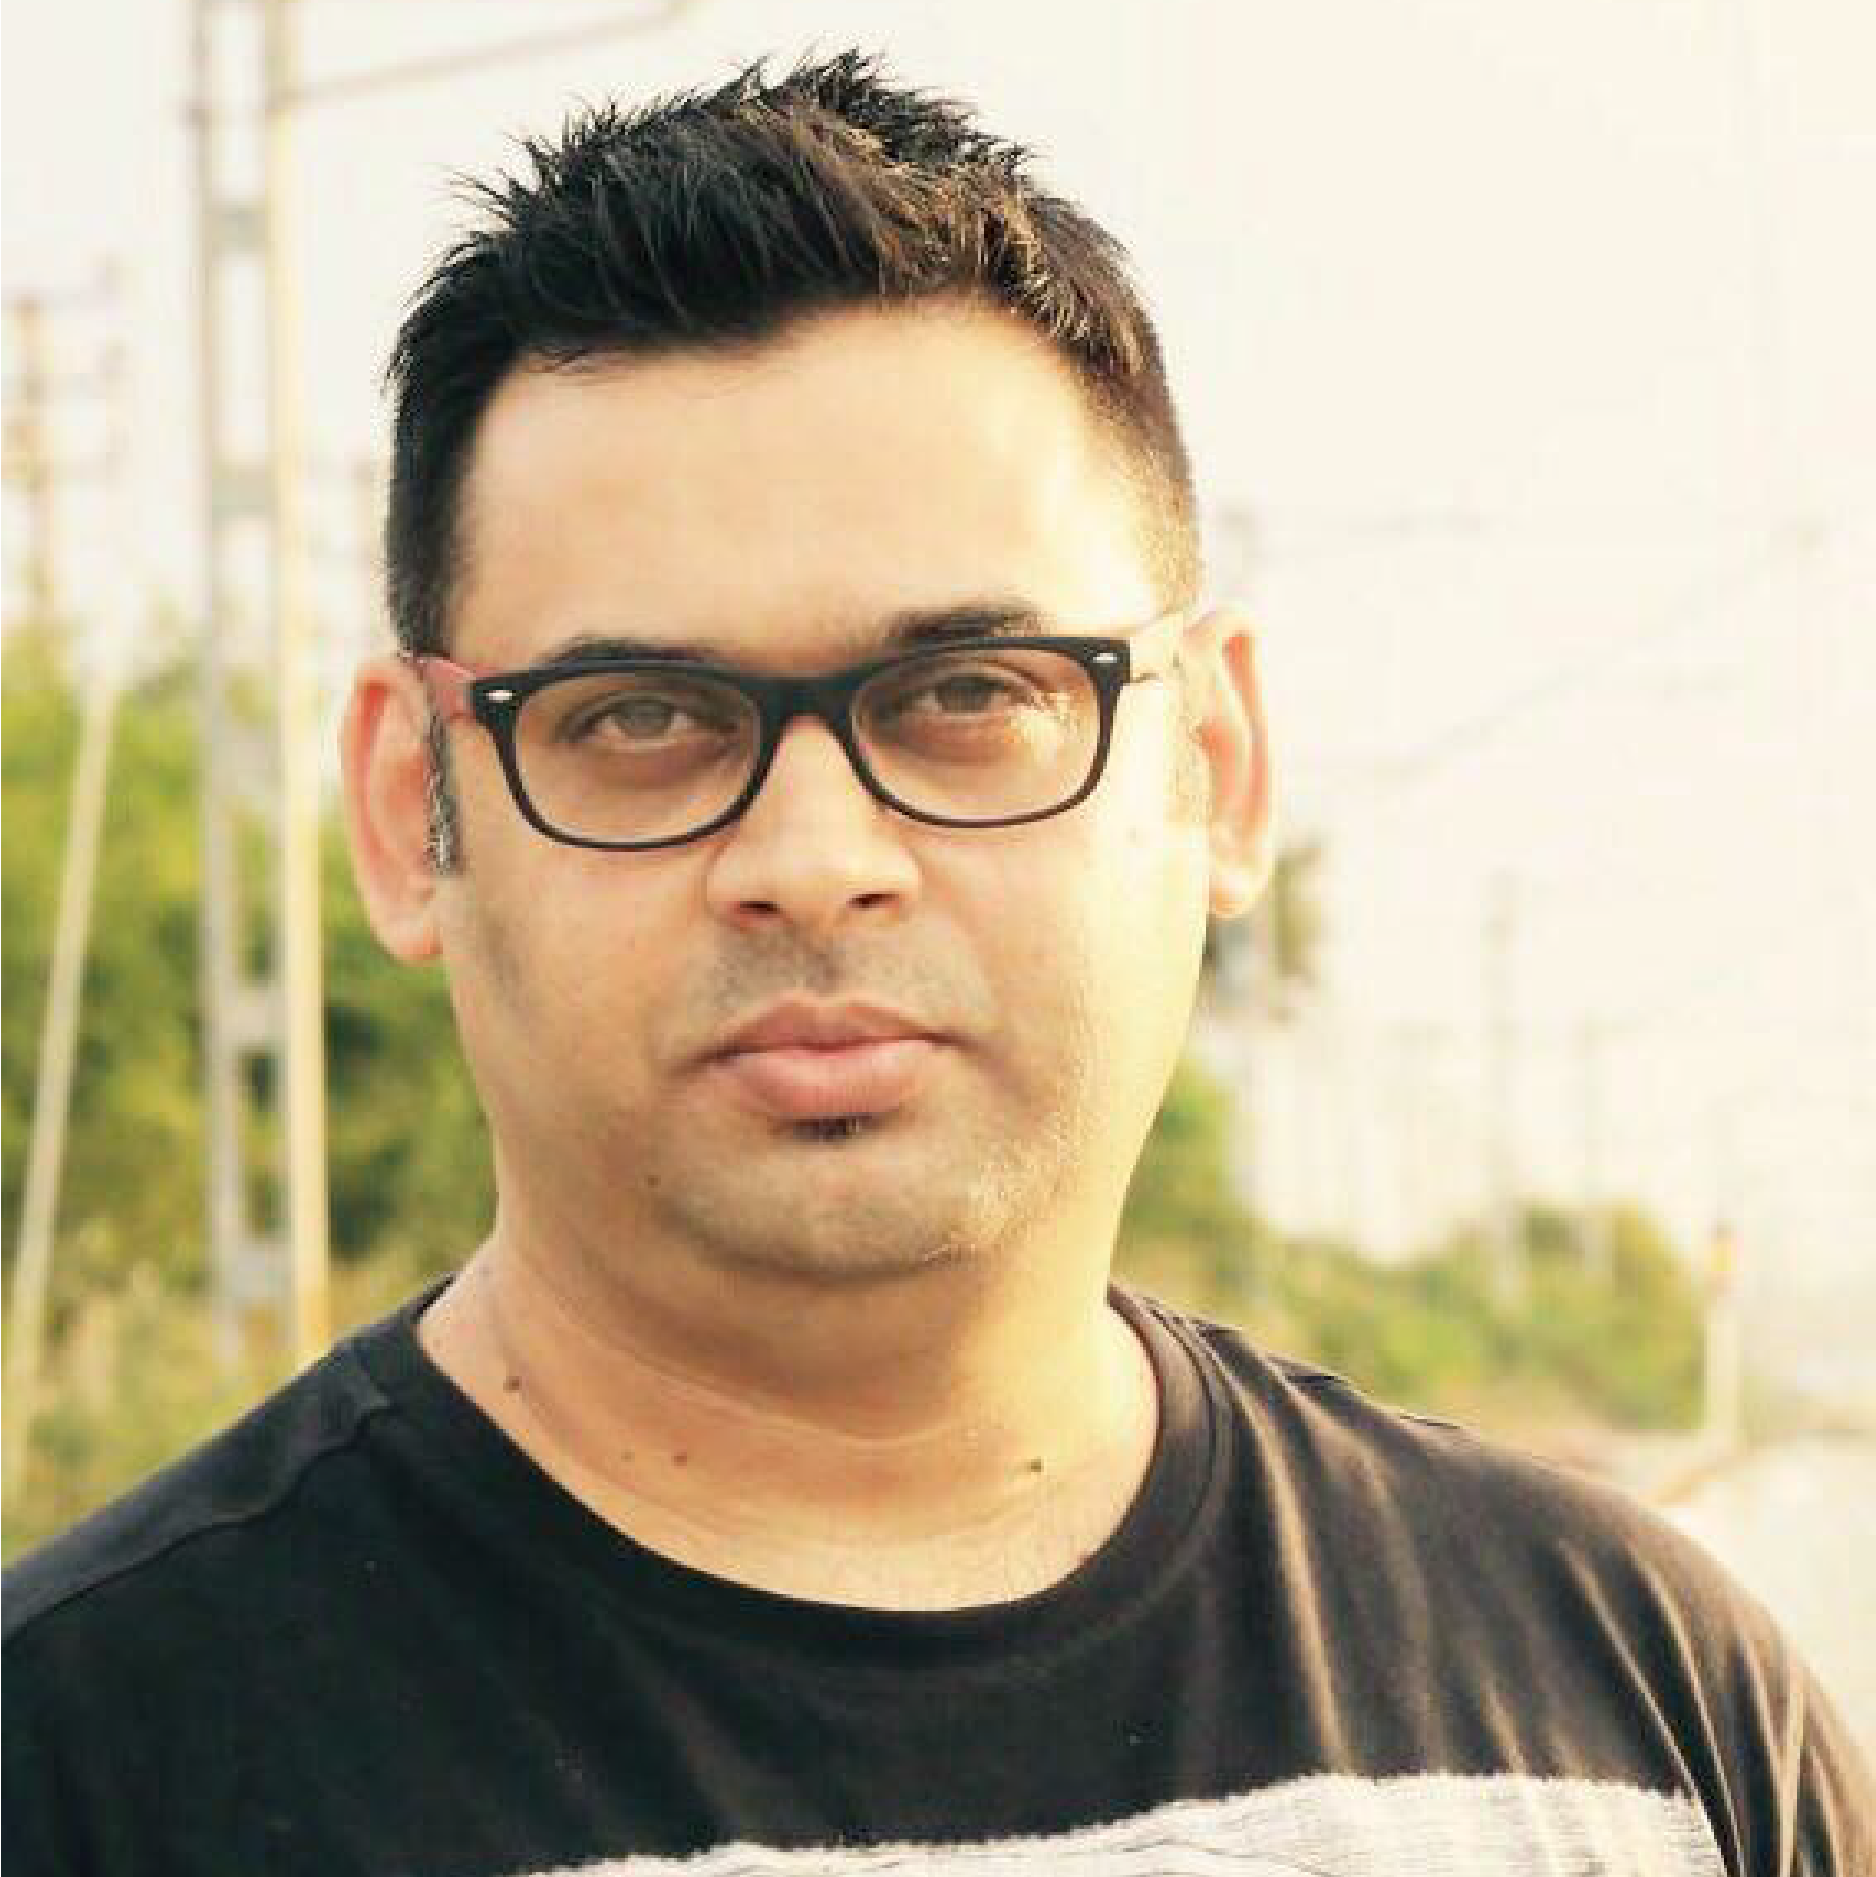
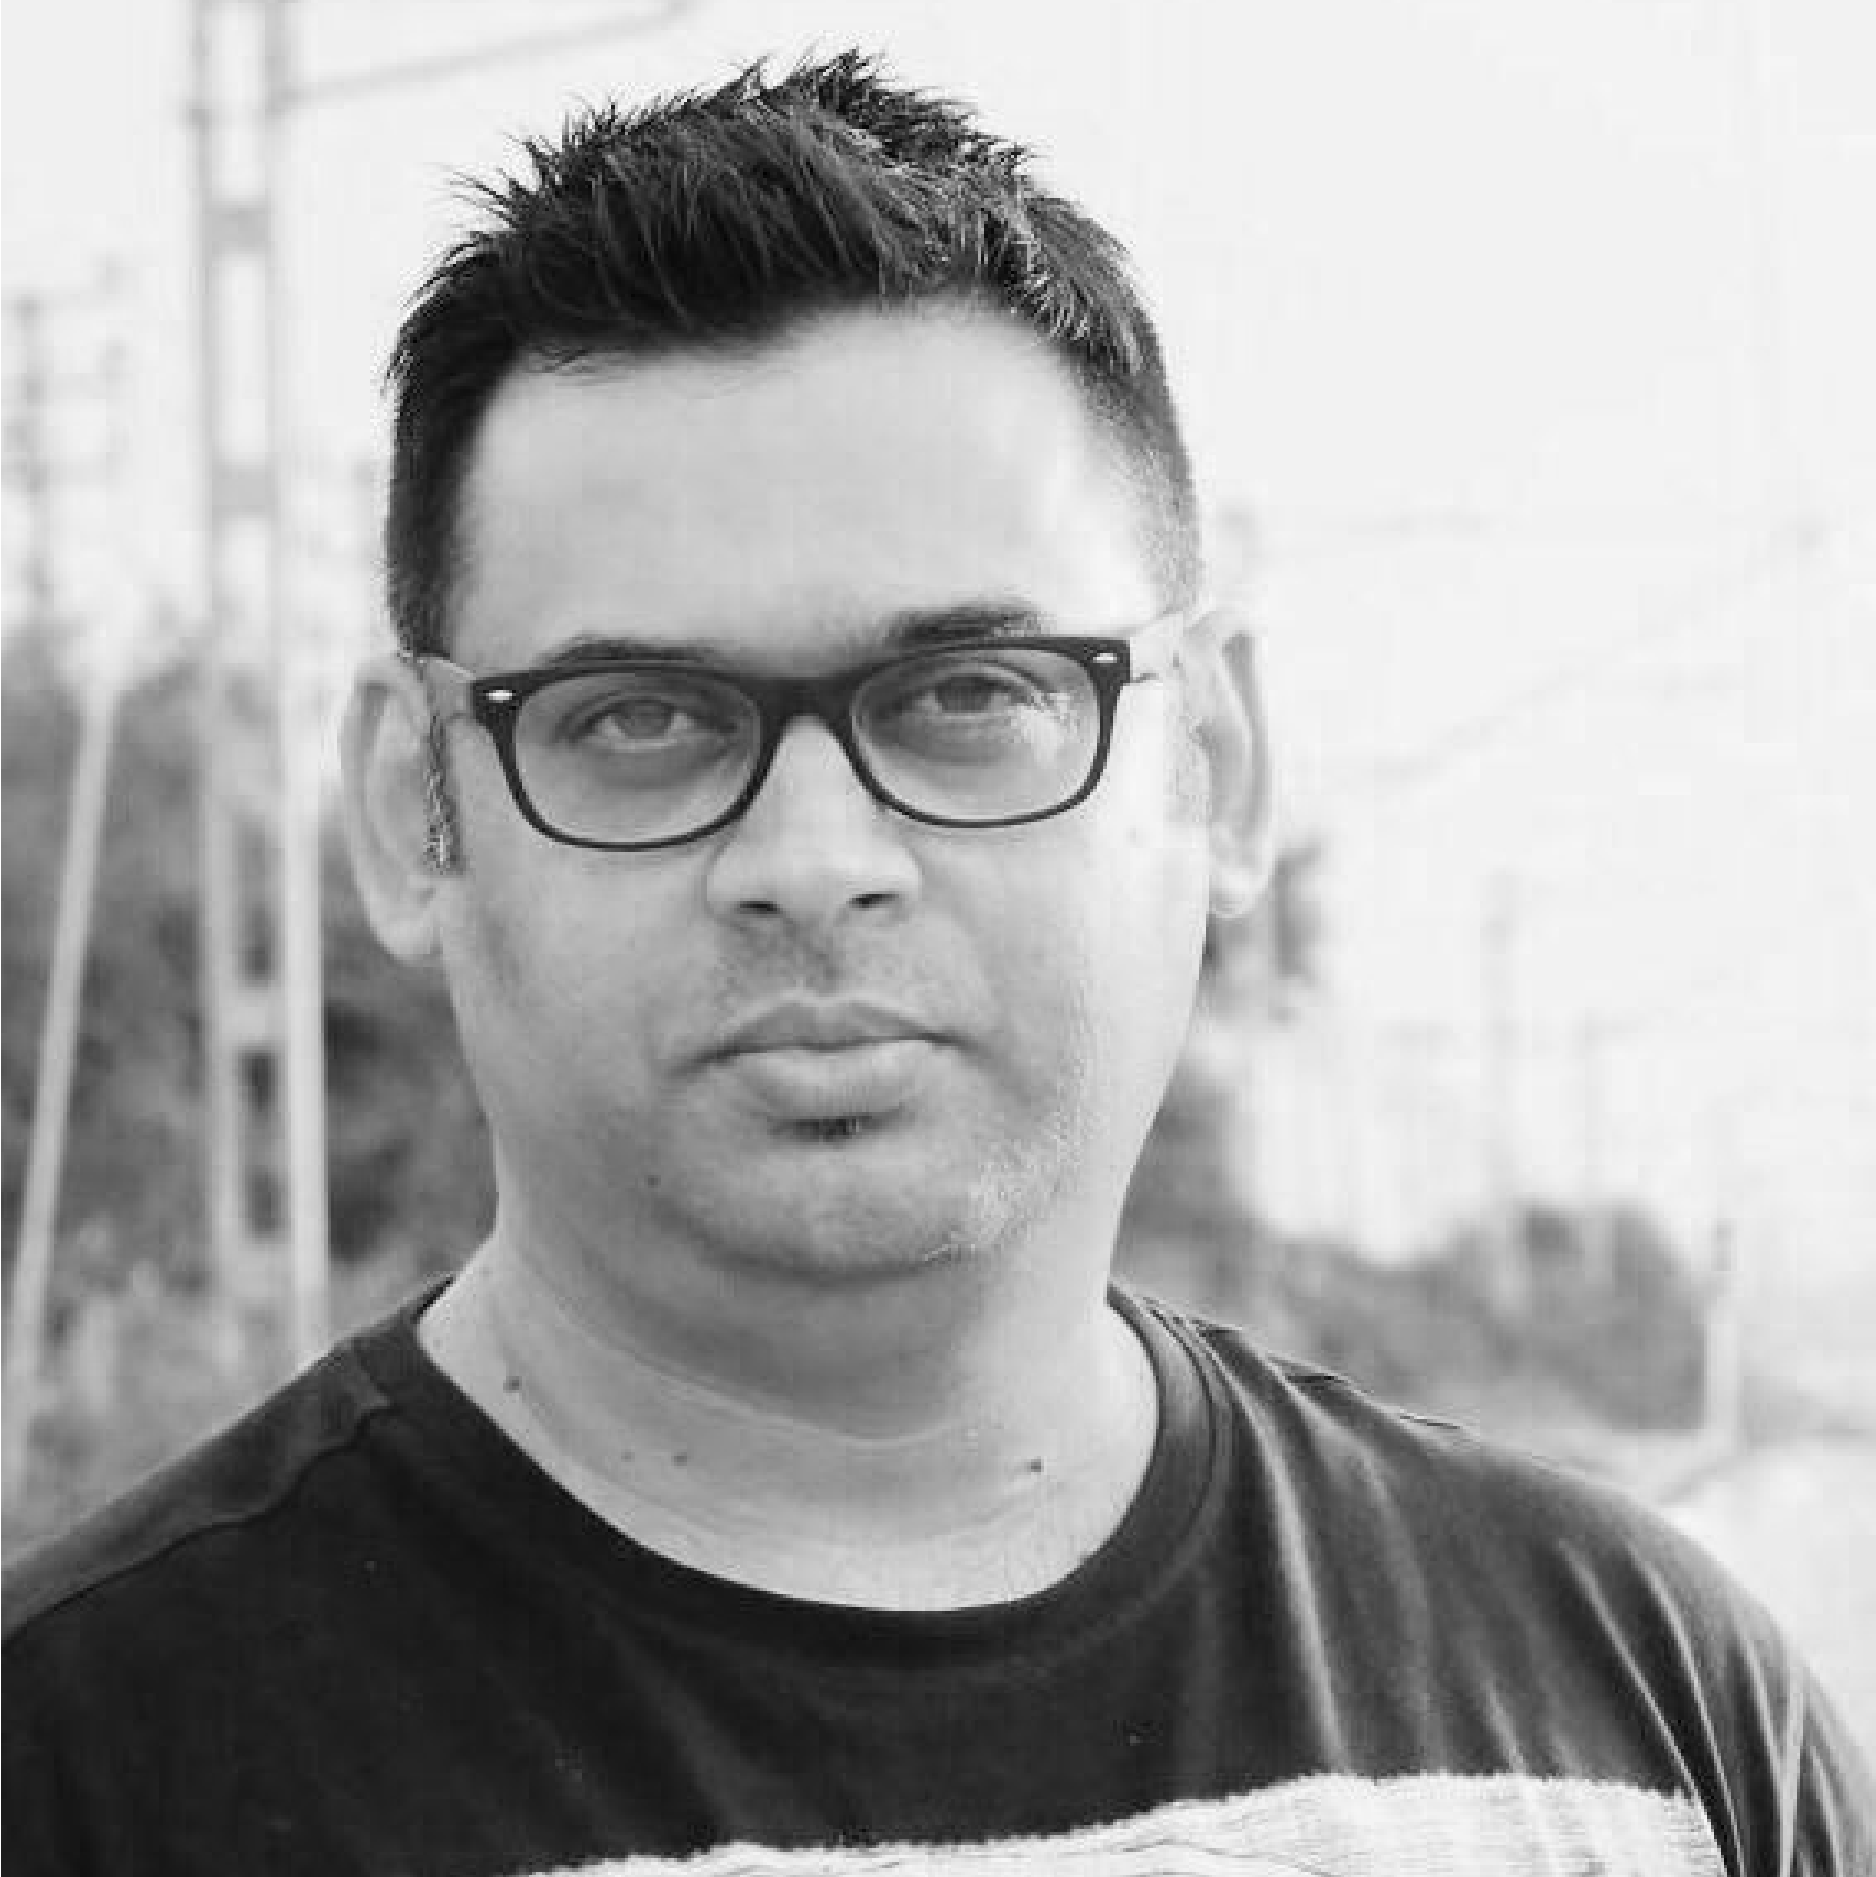
remove exited employees

diff --git a/about.html b/about.html
@@ -314,15 +314,7 @@
                     <p>Bengaluru</p>
                 </div>
             </div>
-            <div class="person">
-                <img src="https://veeville.com/wp-content/uploads/2023/07/Dilip-Kumar.jpg" alt="Michael Bierut">
-                <div class="person-info">
-                    <h3>Dilip Kumar</h3>
-                    <p>Bengaluru</p>
-                </div>
-            </div>
-
-            <!-- Row 2 -->
+          
             <div class="person">
                 <img src="https://veeville.com/wp-content/uploads/2023/08/Ishita-Sharma.jpg" alt="Michael Bierut">
                 <div class="person-info">
@@ -330,6 +322,9 @@
                     <p>Bengaluru</p>
                 </div>
             </div>
+
+            <!-- Row 2 -->
+
             <div class="person">
                 <img src="https://veeville.com/wp-content/uploads/2023/07/Karthik-Ramesh.jpg" alt="Michael Bierut">
                 <div class="person-info">
@@ -337,15 +332,9 @@
                     <p>Bengaluru</p>
                 </div>
             </div>
-            <div class="person">
-                <img src="https://veeville.com/wp-content/uploads/2023/07/Leo-Nathan.jpg" alt="Michael Bierut">
-                <div class="person-info">
-                    <h3>Leo Nathan</h3>
-                    <p>Bengaluru</p>
-                </div>
-            </div>
+         
 
-            <!-- Row 3 -->
+          
             <div class="person">
                 <img src="../Images/About Images/Mahesh.webp" alt="Mahesh">
                 <div class="person-info">
@@ -354,6 +343,15 @@
                 </div>
             </div>
             <div class="person">
+                <img src="https://veeville.com/wp-content/uploads/2023/07/Rajesh-Vorkady.jpg" alt="Rajesh Vorkady">
+                <div class="person-info">
+                    <h3>Rajesh Vorkady</h3>
+                    <p>Bengaluru</p>
+                </div>
+            </div>
+           
+              <!-- Row 3 -->
+              <div class="person">
                 <img src="https://veeville.com/wp-content/uploads/2023/07/Methun-James.jpg" alt="Michael Gericke">
                 <div class="person-info">
                     <h3>Methun James</h3>
@@ -361,59 +359,20 @@
                 </div>
             </div>
             <div class="person">
-                <img src="https://veeville.com/wp-content/uploads/2023/07/Rajesh-Vorkady.jpg" alt="Rajesh Vorkady">
-                <div class="person-info">
-                    <h3>Rajesh Vorkady</h3>
-                    <p>Bengaluru</p>
-                </div>
-            </div>
-
-            <!-- Row 4 -->
-            <div class="person">
                 <img src="https://veeville.com/wp-content/uploads/2023/07/Srividhya-A-R.jpg" alt="Srividhya">
                 <div class="person-info">
                     <h3>Srividhya A R</h3>
                     <p>Bengaluru</p>
                 </div>
-            </div>
+            </div>            
             <div class="person">
-                <img src="https://veeville.com/wp-content/uploads/2023/07/Vallab-Narayan.jpg" alt="Vallab">
-                <div class="person-info">
-                    <h3>Vallab Narayan</h3>
-                    <p>Bengaluru</p>
-                </div>
-            </div>
-            <div class="person">
-                <img src="../Images/About Images/Bharath Ramakanth.webp" alt="Mahesh">
+                <img src="../Images/About Images/Bharath.webp" alt="Mahesh">
                 <div class="person-info">
                     <h3>Bharat Ramanath</h3>
                     <p>Bengaluru</p>
                 </div>
             </div>
-
-            <!-- Row 5 -->
-            <div class="person">
-                <img src="../Images/About Images/Bharath Ramakanth.webp" alt="Mahesh">
-                <div class="person-info">
-                    <h3>Bharat Ramanath</h3>
-                    <p>Bengaluru</p>
-                </div>
-            </div>
-            <div class="person">
-                <img src="https://veeville.com/wp-content/uploads/2023/07/Vallab-Narayan.jpg" alt="Vallab">
-                <div class="person-info">
-                    <h3>Vallab Narayan</h3>
-                    <p>Bengaluru</p>
-                </div>
-            </div>
-            <div class="person">
-                <img src="https://veeville.com/wp-content/uploads/2023/07/Rajesh-Vorkady.jpg" alt="Rajesh Vorkady">
-                <div class="person-info">
-                    <h3>Rajesh Vorkady</h3>
-                    <p>Bengaluru</p>
-                </div>
-
-            </div>
+           
     </section>
 
 
